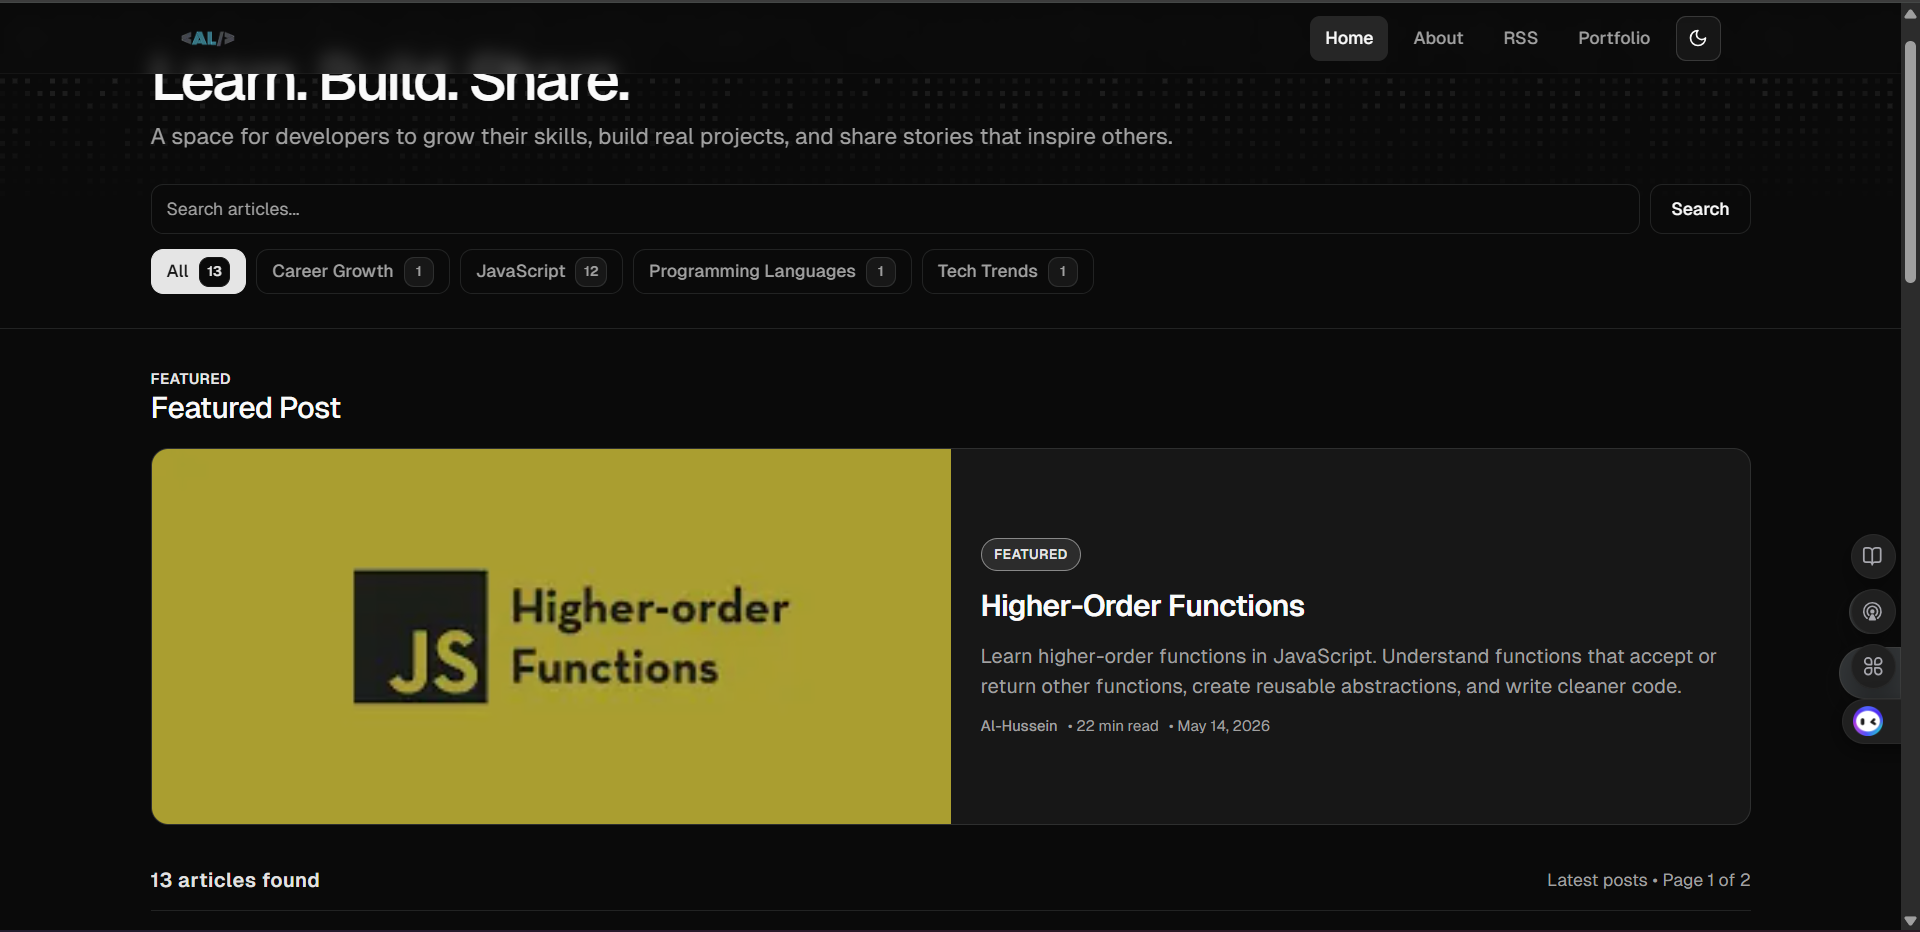
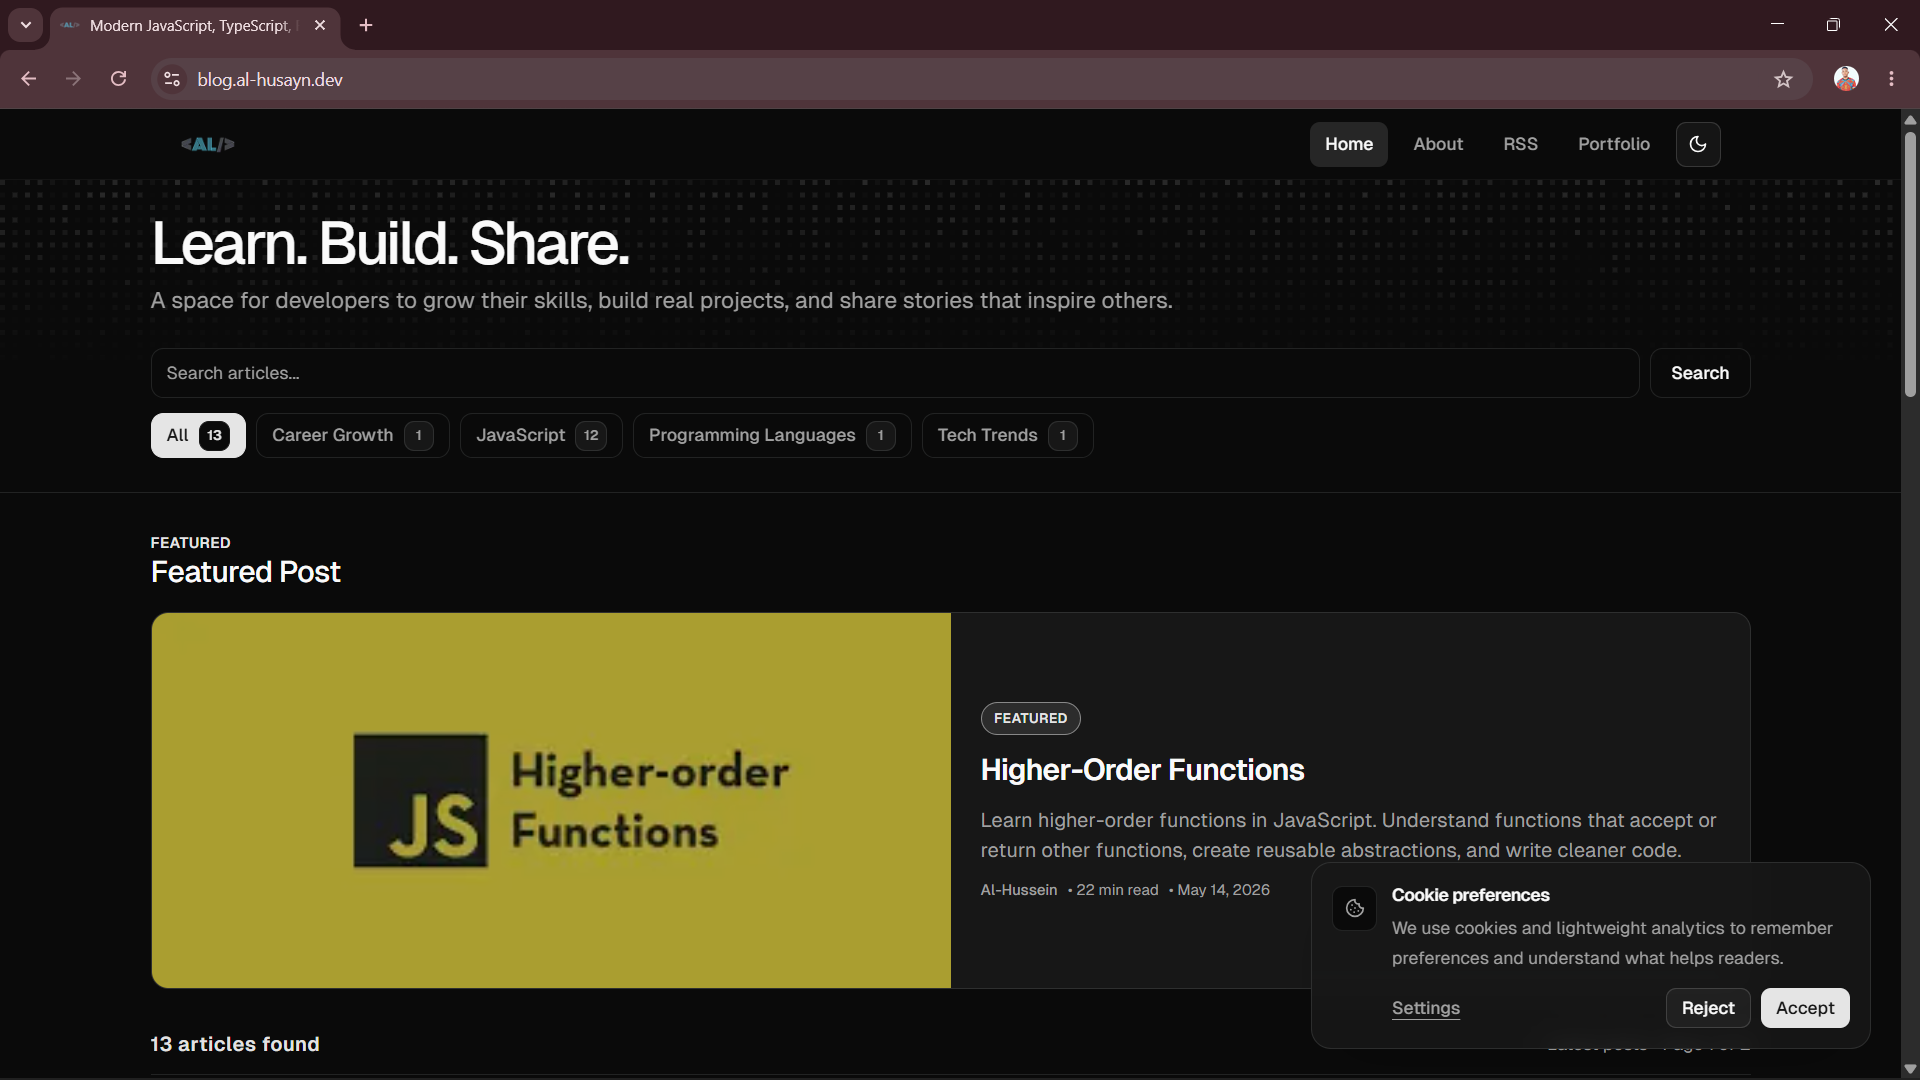
Merge pull request #31 from al-husayn/Fixes
Refactor project data and clean up index file

Pull request: Refactor project data and clean up index file
Remove outdated entries and ensure consistent IDs in project data. Clean up unnecessary blank lines in the data index file for improved readability.

<!-- This is an auto-generated comment: release notes by coderabbit.ai -->

## Summary by CodeRabbit

* **Chores**
  * Updated project portfolio data with new entries and removed select existing projects from the listing. The portfolio now contains fewer items with refreshed content throughout. The underlying data structure has been preserved to maintain compatibility while providing a streamlined project showcase.

<!-- review_stack_entry_start -->

[![Review Change Stack](https://storage.googleapis.com/coderabbit_public_assets/review-stack-in-coderabbit-ui.svg)](https://app.coderabbit.ai/change-stack/al-husayn/modern-portfolio/pull/31?utm_source=github_walkthrough&utm_medium=github&utm_campaign=change_stack)

<!-- review_stack_entry_end -->

<!-- end of auto-generated comment: release notes by coderabbit.ai -->

diff --git a/data/index.ts b/data/index.ts
@@ -340,78 +340,9 @@ export const DATA = {
           { name: "Vercel", icon: "simple-icons:vercel" },
         ],
       },
+
       {
         id: 3,
-        title: "Travel Booking System",
-        description:
-          "Comprehensive booking platform for flights, hotels, and rentals with live availability.",
-        image: "https://img.heroui.chat/image/dashboard?w=600&h=400&u=3",
-        gallery: [
-          "https://img.heroui.chat/image/dashboard?w=600&h=400&u=3",
-          "https://img.heroui.chat/image/dashboard?w=600&h=400&u=3-1",
-          "https://img.heroui.chat/image/dashboard?w=600&h=400&u=3-2",
-          "https://img.heroui.chat/image/dashboard?w=600&h=400&u=3-3",
-        ],
-        category: "Web Development",
-        details:
-          "A modern travel booking system built with Next.js and TailwindCSS. Users can search and book flights, hotels, and car rentals with real-time availability and intuitive UI components powered by HeroUI.",
-        github: "https://github.com",
-        live: "https://example.com",
-        tech: [
-          { name: "Next.js", icon: "skill-icons:nextjs-dark" },
-          { name: "TailwindCSS", icon: "logos:tailwindcss-icon" },
-          { name: "TypeScript", icon: "logos:typescript-icon" },
-        ],
-      },
-      {
-        id: 4,
-        title: "AI Chat Assistant",
-        description:
-          "Smart customer support assistant with contextual awareness and real-time replies.",
-        image: "https://img.heroui.chat/image/dashboard?w=600&h=400&u=4",
-        gallery: [
-          "https://img.heroui.chat/image/dashboard?w=600&h=400&u=4",
-          "https://img.heroui.chat/image/dashboard?w=600&h=400&u=4-1",
-          "https://img.heroui.chat/image/dashboard?w=600&h=400&u=4-2",
-          "https://img.heroui.chat/image/dashboard?w=600&h=400&u=4-3",
-        ],
-        category: "Applications",
-        details:
-          "AI-powered chat assistant developed with React and TailwindCSS. Integrated with OpenAI’s GPT API for contextual conversations, deployed via Vercel with real-time response and adaptive UI.",
-        github: "https://github.com",
-        live: "https://example.com",
-        tech: [
-          { name: "React", icon: "logos:react" },
-          { name: "TailwindCSS", icon: "logos:tailwindcss-icon" },
-          { name: "OpenAI API", icon: "simple-icons:openai" },
-          { name: "Vercel", icon: "simple-icons:vercel" },
-        ],
-      },
-      {
-        id: 5,
-        title: "Portfolio API & CMS",
-        description:
-          "Headless API backend with admin-friendly CMS capabilities.",
-        image: "https://img.heroui.chat/image/dashboard?w=600&h=400&u=5",
-        gallery: [
-          "https://img.heroui.chat/image/dashboard?w=600&h=400&u=5",
-          "https://img.heroui.chat/image/dashboard?w=600&h=400&u=5-1",
-          "https://img.heroui.chat/image/dashboard?w=600&h=400&u=5-2",
-          "https://img.heroui.chat/image/dashboard?w=600&h=400&u=5-3",
-        ],
-        category: "Backend Services",
-        details:
-          "A modular REST API built with Node.js and Express, powering dynamic portfolio websites. It includes JWT-based authentication, MySQL integration, and a Swagger-documented CMS interface for easy content management by non-developers.",
-        github: "https://github.com",
-        tech: [
-          { name: "Node.js", icon: "logos:nodejs-icon" },
-          { name: "MySQL", icon: "logos:mysql-icon" },
-          { name: "JWT", icon: "simple-icons:jsonwebtokens" },
-          { name: "Swagger", icon: "simple-icons:swagger" },
-        ],
-      },
-      {
-        id: 6,
         title: "Fitness Tracker App",
         description:
           "Monitor workouts, calorie intake, and goals in one place.",
@@ -434,7 +365,7 @@ export const DATA = {
         ],
       },
       {
-        id: 7,
+        id: 4,
         title: "Content Scheduler",
         description:
           "Plan, schedule, and automate your social media posts effortlessly.",
@@ -456,31 +387,9 @@ export const DATA = {
           { name: "TailwindCSS", icon: "logos:tailwindcss-icon" },
         ],
       },
+
       {
-        id: 8,
-        title: "Real Estate Dashboard",
-        description:
-          "Comprehensive dashboard to manage properties, leads, and sales pipelines effectively.",
-        image: "https://img.heroui.chat/image/dashboard?w=600&h=400&u=8",
-        gallery: [
-          "https://img.heroui.chat/image/dashboard?w=600&h=400&u=8",
-          "https://img.heroui.chat/image/dashboard?w=600&h=400&u=8-1",
-          "https://img.heroui.chat/image/dashboard?w=600&h=400&u=8-2",
-          "https://img.heroui.chat/image/dashboard?w=600&h=400&u=8-3",
-        ],
-        category: "Web Development",
-        details:
-          "An admin panel tailored for real estate professionals featuring interactive data visualizations, lead tracking, and CRM system integrations to streamline client and property management.",
-        github: "https://github.com",
-        live: "https://example.com",
-        tech: [
-          { name: "React", icon: "logos:react" },
-          { name: "TailwindCSS", icon: "logos:tailwindcss-icon" },
-          { name: "Chart.js", icon: "simple-icons:chartdotjs" },
-        ],
-      },
-      {
-        id: 9,
+        id: 5,
         title: "Crypto Wallet API",
         description:
           "Robust backend API for secure cryptocurrency operations and blockchain interactions.",
@@ -500,30 +409,6 @@ export const DATA = {
           { name: "Ethereum", icon: "logos:ethereum" },
           { name: "Web3.js", icon: "simple-icons:web3dotjs" },
           { name: "PostgreSQL", icon: "logos:postgresql" },
-          { name: "JWT", icon: "simple-icons:jsonwebtokens" },
-        ],
-      },
-      {
-        id: 10,
-        title: "SaaS Subscription API",
-        description:
-          "Backend API managing SaaS subscriptions, billing, and user accounts.",
-        image: "https://img.heroui.chat/image/dashboard?w=600&h=400&u=10",
-        gallery: [
-          "https://img.heroui.chat/image/dashboard?w=600&h=400&u=10",
-          "https://img.heroui.chat/image/dashboard?w=600&h=400&u=10-1",
-          "https://img.heroui.chat/image/dashboard?w=600&h=400&u=10-2",
-          "https://img.heroui.chat/image/dashboard?w=600&h=400&u=10-3",
-        ],
-        category: "Backend Services",
-        details:
-          "RESTful API supporting SaaS subscription workflows with Stripe integration, usage metering, tiered pricing, webhook handling, trial periods, and analytics. Optimized for high concurrency with Redis caching.",
-        github: "https://github.com",
-        tech: [
-          { name: "Node.js", icon: "logos:nodejs-icon" },
-          { name: "Stripe", icon: "logos:stripe" },
-          { name: "PostgreSQL", icon: "logos:postgresql" },
-          { name: "Redis", icon: "logos:redis" },
           { name: "JWT", icon: "simple-icons:jsonwebtokens" },
         ],
       },